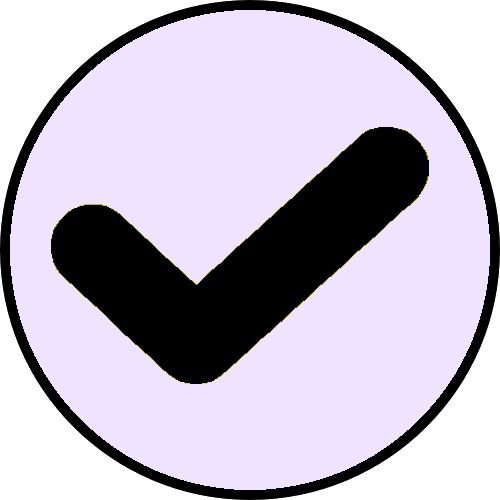
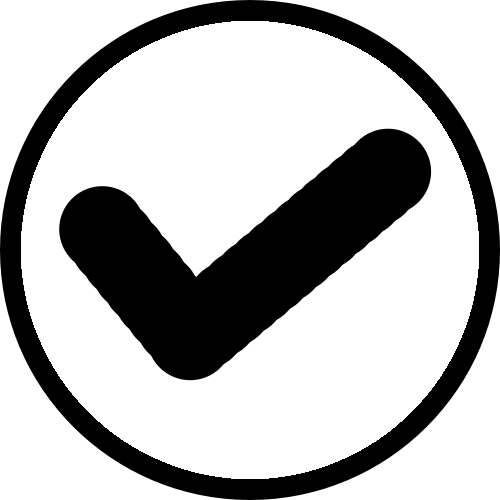
2

diff --git a/docs/index.html b/docs/index.html
@@ -309,7 +309,7 @@ table {
   font-family: 'futura';
   font-size: 18px;
   color: #ffffff;
-  -webkit-text-stroke: .05em #000000;
+  -webkit-text-stroke: .045em #000000;
   position: relative;
   width: calc(100% - 1px);
   margin: 1px 0px 1px 0px;
@@ -586,6 +586,7 @@ input[type="range"]::-webkit-slider-thumb {
   white-space: nowrap;
   overflow: hidden;
   color: #ffffff;
+  border-bottom: solid 1px #ffffff;
 }
 .MoreBody {
   flex: 1;
@@ -761,27 +762,28 @@ li {
 .h3 { left: 20%; bottom: 5%;  animation-delay: .75s; }
 .h4 { left: 60%; bottom: 5%;  animation-delay: 1s; }
 
-.playcount {
-  width: auto;
-  text-align: center;
-  font-size: 10px;
-  font-weight: bold;
-  line-height: 10px;
-  z-index: 3;
+.playcountframe {
+  font-size: 14px;
   position: absolute;
-  right: 0px;
   top: 0;
+  right: 0;
   bottom: 0;
-  padding: 0px 5px 0px 50px;
-  background-size: auto 50px;
-  background-position: left center;
-  background-image: linear-gradient(to right, transparent, rgba(70, 70, 70, .9) 50px, rgba(70, 70, 70, .9));
-  border-bottom-right-radius: 20px; /* Needed for backdrop filter */
-  color: #f0e2ff;
-  -webkit-text-stroke: .02em #000000;
+  min-width: 60px; /* or whatever minimum you want */
+  padding: 0 2px;
+  background-color: rgba(255, 255, 255, .3);
+  backdrop-filter: blur(5px);
   display: flex;
-  align-items: center;   /* vertical centering */
+  align-items: center;
   justify-content: center;
+  text-align: center;
+  line-height: 1.1;
+}
+.plays {
+  position: static;
+  white-space: nowrap;
+}
+.playcount {
+  position: static; /* remove the absolute positioning */
 }
 /*------100vh Controls Sum Landscape = 217px (with frame) + 195px (without frame)-------*/
 
@@ -927,16 +929,16 @@ li {
             <div class="shuffleBtn"  onclick="shuffle()" alt="Shuffle" title="Shuffle"></div>
           <div align='center'>
             <audio id="introAudio" preload="auto" src="fmp3smusic/Sale.mp3"></audio>
-            <button preload="auto" class ="song-button GoodForYou" data-song="fmp3smusic/GoodForYou.mp3"><img src="fmp3simages/GoodForYou.jpg" class="AlbumThumbnail">"Good For You"<span class="playcount">...</span></button>
-            <button preload="auto" class ="song-button MoreThanJustAFan" data-song="fmp3smusic/MoreThanJustAFan.mp3"><img src="fmp3simages/MoreThanJustAFan.jpg" class="AlbumThumbnail">"More Than Just A Fan"<span class="playcount">...</span></button>
-            <button preload="auto" class ="song-button TheGoodLink" data-song="fmp3smusic/TheGoodLink/TGL1.mp3"><img src="fmp3simages/TheGoodLink.png" class="AlbumThumbnail">"Black Jeans"<span class="playcount">...</span></button>
-            <button preload="auto" class ="song-button TheGoodLink" data-song="fmp3smusic/TheGoodLink/TGL2.mp3"><img src="fmp3simages/TheGoodLink.png" class="AlbumThumbnail">"Ah, Ah, Ah"<span class="playcount">...</span></button>
-            <button preload="auto" class ="song-button TheGoodLink" data-song="fmp3smusic/TheGoodLink/TGL3.mp3"><img src="fmp3simages/TheGoodLink.png" class="AlbumThumbnail">"Looks"<span class="playcount">...</span></button>
-            <button preload="auto" class ="song-button TheGoodLink" data-song="fmp3smusic/TheGoodLink/TGL4.mp3"><img src="fmp3simages/TheGoodLink.png" class="AlbumThumbnail">"Became So Real"<span class="playcount">...</span></button>
-            <button preload="auto" class ="song-button TheGoodLink" data-song="fmp3smusic/TheGoodLink/TGL5.mp3"><img src="fmp3simages/TheGoodLink.png" class="AlbumThumbnail">"Dry"<span class="playcount">...</span></button>
-            <button preload="auto" class ="song-button TheGoodLink" data-song="fmp3smusic/TheGoodLink/TGL6.mp3"><img src="fmp3simages/TheGoodLink.png" class="AlbumThumbnail">"Black Panther"<span class="playcount">...</span></button>
-            <button preload="auto" class ="song-button TheGoodLink" data-song="fmp3smusic/TheGoodLink/TGL7.mp3"><img src="fmp3simages/TheGoodLink.png" class="AlbumThumbnail">"Everything I Claim To Be"<span class="playcount">...</span></button>
-            <button preload="auto" class ="song-button TheGoodLink" data-song="fmp3smusic/TheGoodLink/TGL8.mp3"><img src="fmp3simages/TheGoodLink.png" class="AlbumThumbnail">"Reality"<span class="playcount">...</span></button>
+            <button preload="auto" class ="song-button GoodForYou" data-song="fmp3smusic/GoodForYou.mp3"><img src="fmp3simages/GoodForYou.jpg" class="AlbumThumbnail">"Good For You"<div class="playcountframe"><div class="plays"><span class="playcount">?</span><br>Listens</div></div></button>
+            <button preload="auto" class ="song-button MoreThanJustAFan" data-song="fmp3smusic/MoreThanJustAFan.mp3"><img src="fmp3simages/MoreThanJustAFan.jpg" class="AlbumThumbnail">"More Than Just A Fan"<div class="playcountframe"><div class="plays"><span class="playcount">?</span><br>Listens</div></div></button>
+            <button preload="auto" class ="song-button TheGoodLink" data-song="fmp3smusic/TheGoodLink/TGL1.mp3"><img src="fmp3simages/TheGoodLink.png" class="AlbumThumbnail">"Black Jeans"<div class="playcountframe"><div class="plays"><span class="playcount">?</span><br>Listens</div></div></button>
+            <button preload="auto" class ="song-button TheGoodLink" data-song="fmp3smusic/TheGoodLink/TGL2.mp3"><img src="fmp3simages/TheGoodLink.png" class="AlbumThumbnail">"Ah, Ah, Ah"<div class="playcountframe"><div class="plays"><span class="playcount">?</span><br>Listens</div></div></button>
+            <button preload="auto" class ="song-button TheGoodLink" data-song="fmp3smusic/TheGoodLink/TGL3.mp3"><img src="fmp3simages/TheGoodLink.png" class="AlbumThumbnail">"Looks"<div class="playcountframe"><div class="plays"><span class="playcount">?</span><br>Listens</div></div></button>
+            <button preload="auto" class ="song-button TheGoodLink" data-song="fmp3smusic/TheGoodLink/TGL4.mp3"><img src="fmp3simages/TheGoodLink.png" class="AlbumThumbnail">"Became So Real"<div class="playcountframe"><div class="plays"><span class="playcount">?</span><br>Listens</div></div></button>
+            <button preload="auto" class ="song-button TheGoodLink" data-song="fmp3smusic/TheGoodLink/TGL5.mp3"><img src="fmp3simages/TheGoodLink.png" class="AlbumThumbnail">"Dry"<div class="playcountframe"><div class="plays"><span class="playcount">?</span><br>Listens</div></div></button>
+            <button preload="auto" class ="song-button TheGoodLink" data-song="fmp3smusic/TheGoodLink/TGL6.mp3"><img src="fmp3simages/TheGoodLink.png" class="AlbumThumbnail">"Black Panther"<div class="playcountframe"><div class="plays"><span class="playcount">?</span><br>Listens</div></div></button>
+            <button preload="auto" class ="song-button TheGoodLink" data-song="fmp3smusic/TheGoodLink/TGL7.mp3"><img src="fmp3simages/TheGoodLink.png" class="AlbumThumbnail">"Everything I Claim To Be"<div class="playcountframe"><div class="plays"><span class="playcount">?</span><br>Listens</div></div></button>
+            <button preload="auto" class ="song-button TheGoodLink" data-song="fmp3smusic/TheGoodLink/TGL8.mp3"><img src="fmp3simages/TheGoodLink.png" class="AlbumThumbnail">"Reality"<div class="playcountframe"><div class="plays"><span class="playcount">?</span><br>Listens</div></div></button>
           </div>
         </div>
       
@@ -1273,8 +1275,8 @@ async function commitDailyGrowth(songRef, songId) {
           if (!el) return;
 
           //------------------Listens
-          const shortText = `${formatPlays(displayPlays)} Listens`;
-          const fullText  = `${displayPlays.toLocaleString()} Listens`;
+          const shortText = `${formatPlays(displayPlays)}`;
+          const fullText  = `${displayPlays.toLocaleString()}`;
 
           if (el.matches(':hover')) {
             el.textContent = fullText;
@@ -1305,14 +1307,15 @@ async function commitDailyGrowth(songRef, songId) {
 
     const displayPlays = highestDisplayed[songId] || 0;
 
-    const shortText = `${formatPlays(displayPlays)} Listens`;
-    const fullText  = `${displayPlays.toLocaleString()} Listens`;
+    const shortText = `${formatPlays(displayPlays)}`;
 
-    if (el.matches(':hover')) {
-      el.textContent = fullText;
-    } else {
-      el.textContent = shortText;
-    }
+    const fullText  = `${displayPlays.toLocaleString()}`;
+
+if (el.matches(':hover')) {
+  el.innerHTML = fullText;
+} else {
+  el.innerHTML = shortText;
+}
   }
 
 async function commitSongPlay(songPath, button) {